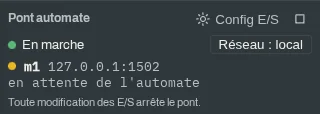
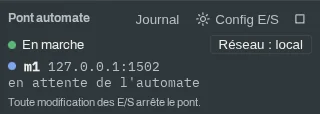
docs(site): bridge log window screenshot, screenshots regenerated
Claude-Session: https://claude.ai/code/session_01386vuz4pZpXaZm5zqPUMKQ

Changed region(s): [[0.4062, 0.1316, 0.5625, 0.2105], [0.0, 0.5263, 0.0625, 0.6316]]

diff --git a/scripts/docs-screenshots/capture-bridge.ts b/scripts/docs-screenshots/capture-bridge.ts
@@ -1,3 +1,4 @@
+import { connect } from "node:net";
 import type { Locator } from "playwright-core";
 import { bridgeCard, FORCED } from "./pantin-page.ts";
 import type { Session } from "./session.ts";
@@ -9,6 +10,39 @@ async function waitForBridgeState(session: Session, card: Locator, wanted: RegEx
   await session.page.waitForTimeout(300);
 }
 
+// Modbus "write single register" (value 0 to register 0) addressed to unit 2: the module
+// answers unit 1, so it refuses and writes nothing.
+const REFUSED_REQUEST = Buffer.from("000100000006020600000000", "hex");
+// The port of module m1 in examples/plc-cylinder/io.json.
+const MODULE_PORT = 1502;
+const ANSWER_TIMEOUT_MILLISECONDS = 5_000;
+
+/** Sends one request the module refuses, so the journal gets a WARNING line to show. */
+async function sendRefusedRequest(): Promise<void> {
+  await new Promise<void>((resolve, reject) => {
+    const socket = connect({ host: "127.0.0.1", port: MODULE_PORT }, () => {
+      socket.write(REFUSED_REQUEST);
+    });
+    socket.setTimeout(ANSWER_TIMEOUT_MILLISECONDS, () => {
+      socket.destroy(new Error(`No Modbus answer on 127.0.0.1:${MODULE_PORT}.`));
+    });
+    socket.once("data", () => socket.end());
+    socket.once("close", () => resolve());
+    socket.once("error", reject);
+  });
+}
+
+async function captureJournal(session: Session, card: Locator): Promise<void> {
+  const { label } = session;
+  await sendRefusedRequest();
+  await card.getByRole("button", { name: label("bridge.journal.button") }).click(FORCED);
+  const dialog = session.page.getByRole("dialog", { name: label("bridge.journal.title") });
+  await dialog.getByText("WARNING").first().waitFor({ timeout: 15_000 });
+  await saveShot(session, "bridge-journal", dialog);
+  await session.page.keyboard.press("Escape");
+  await dialog.waitFor({ state: "hidden" });
+}
+
 /** The bridge binds the Modbus ports on localhost only; it is stopped again before we leave. */
 export async function captureBridgeCard(session: Session): Promise<void> {
   const { label } = session;
@@ -18,6 +52,7 @@ export async function captureBridgeCard(session: Session): Promise<void> {
   const running = new RegExp(label("bridge.state.running"));
   await waitForBridgeState(session, card, running);
   await saveShot(session, "bridge-running", card);
+  await captureJournal(session, card);
   await card.getByRole("button", { name: label("bridge.action.stop") }).click(FORCED);
   await waitForBridgeState(session, card, new RegExp(label("bridge.state.stopped")));
 }

diff --git a/scripts/docs-screenshots.ts b/scripts/docs-screenshots.ts
@@ -117,8 +117,12 @@ async function captureAllLanguages(
   encoderPage: Page,
   baseUrl: string,
   outputRoot: string,
+  pantinsDirectory: string,
 ): Promise<void> {
   for (const entry of LANGUAGES) {
+    // The bridge log outlives a run: start each language with an empty one, so the journal
+    // picture shows that run only.
+    await rm(join(pantinsDirectory, ".logs"), { recursive: true, force: true });
     const names = await captureLanguage(browser, encoderPage, baseUrl, outputRoot, entry);
     process.stdout.write(`${entry.language}: ${names.length} screenshots (${names.join(", ")})\n`);
   }
@@ -161,7 +165,7 @@ async function main(): Promise<void> {
     // Pictures go to a temporary folder first: a failed run leaves the published ones untouched.
     const freshOutput = join(pantinsDirectory, "screenshots");
     await Promise.race([
-      captureAllLanguages(browser, encoderPage, core.baseUrl, freshOutput),
+      captureAllLanguages(browser, encoderPage, core.baseUrl, freshOutput, pantinsDirectory),
       interruption(),
     ]);
     await replaceDirectory(freshOutput, OUTPUT_ROOT);

diff --git a/CHANGELOG.md b/CHANGELOG.md
@@ -30,7 +30,8 @@ All notable changes to Pantin. The format follows
   exception. `GET /api/pantins/:pantinId/bridge/log` serves the file
   (`?download=1` for an attachment), the bridge's WARNING and ERROR lines reach
   the Pantin console as the code `bridge_log`, and `pnpm pantin bridge-log
-  <pantinId> [--follow]` reads the file with the core stopped.
+  <pantinId> [--follow]` reads the file with the core stopped. The user guide
+  shows the log window (new `bridge-journal` screenshot, fr and en).
 - Claude Code, a `doc-writer` subagent that keeps the user guide (ADR 0051)
   and its screenshots in step with a change, in French and English; CLAUDE.md
   section 7 lists it and calls it before the reviewer.

diff --git a/docs/site/reference/panels.md b/docs/site/reference/panels.md
@@ -472,6 +472,8 @@ La console prévient aussi quand la simulation est en pause alors qu'un pont aut
 
 ### Le journal du pont automate
 
+![La fenêtre Journal du pont automate : lignes CORE et BRIDGE, avec une ligne WARNING en couleur](/screenshots/fr/bridge-journal.webp)
+
 Le bouton **Journal** de la carte ouvre une fenêtre **Journal du pont automate**. Elle montre la fin du fichier de journal du pont (voir [Le fichier de journal](#le-fichier-de-journal)) dans une liste à chasse fixe (**Lignes du journal**), calée en bas. Tant qu'elle est ouverte, elle se met à jour à chaque nouvel état du pont.
 
 | Contrôle | Ce qu'il fait | Grisé quand |

diff --git a/docs/site/en/reference/panels.md b/docs/site/en/reference/panels.md
@@ -472,6 +472,8 @@ The console also warns when the simulation is paused while a PLC bridge is conne
 
 ### The PLC bridge log
 
+![The PLC bridge log window: CORE and BRIDGE lines, with a coloured WARNING line](/screenshots/en/bridge-journal.webp)
+
 The card's **Log** button opens a **PLC bridge log** window. It shows the end of the bridge log file (see [The log file](#the-log-file)) in a monospace list (**Log lines**), scrolled to the bottom. While it is open, it refreshes on every new bridge state.
 
 | Control | What it does | Greyed out when |
